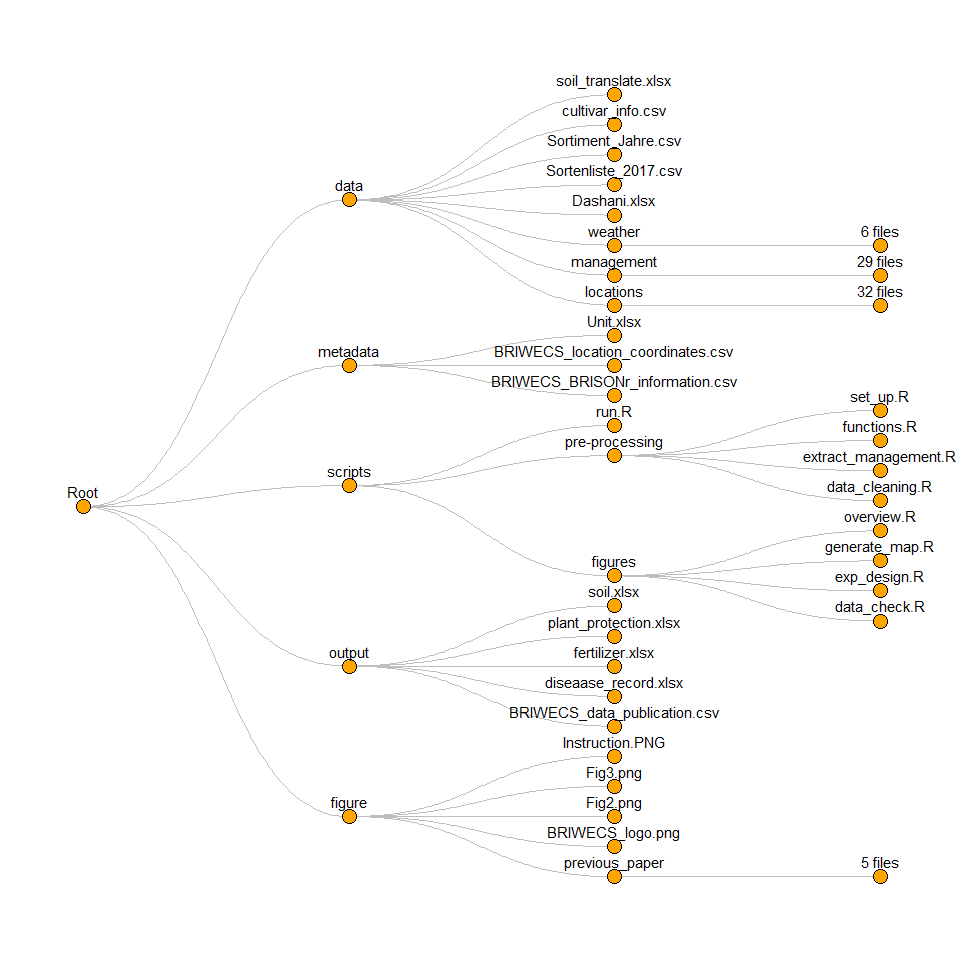
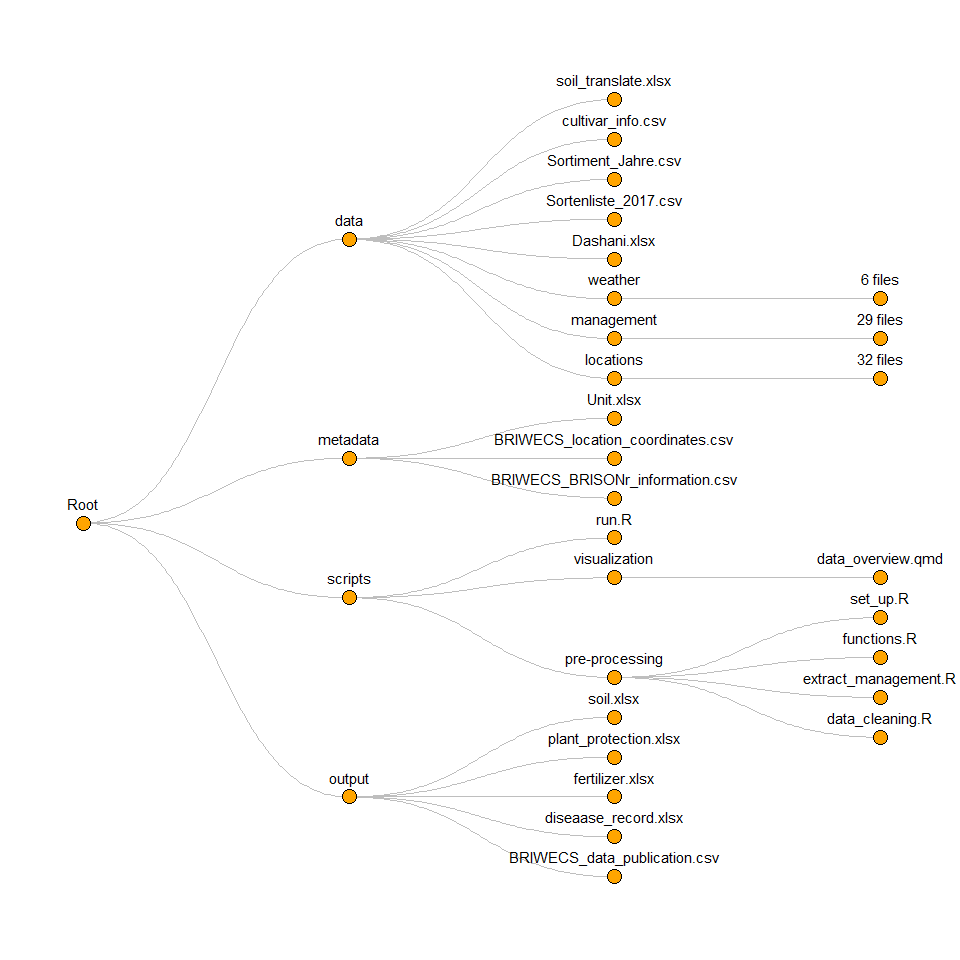
update readme directory tree

diff --git a/README.md b/README.md
@@ -2,7 +2,6 @@
 <!-- README.md is generated from README.Rmd. Please edit that file -->
 
 [![Analysis-workflow](https://img.shields.io/badge/Analysis-workflow-darkorange)](https://github.com/Illustratien/Scientific_Data_Analyis)
-
 [![Website -
 pkgdown](https://img.shields.io/badge/data-visulaization-blue)](https://tillrose.github.io/BRIWECS_Data_Publication/data_overview.html)
 [![Project-website](https://img.shields.io/badge/Project-website-darkgreen)](https://www.igps.uni-hannover.de/de/forschung/forschungsprojekte/detailansicht/projects/forschungsverbund-briwecs)
@@ -486,36 +485,3 @@ g
 </tr>
 </tbody>
 </table>
-
-## overview visualizations
-
-<figure>
-<img
-src="https://github.com/tillrose/BRIWECS_Data_Publication/blob/main/figure/fig1.png"
-data-fig-align="center"
-alt="Fig1. Experiments location and soil properties." />
-<figcaption aria-hidden="true">Fig1. Experiments location and soil
-properties.</figcaption>
-</figure>
-
-<figure>
-<img
-src="https://github.com/tillrose/BRIWECS_Data_Publication/blob/main/figure/Fig2.png"
-data-fig-align="center"
-alt="Fig2. An overview of MET data descriptor of winter wheat containing 24 traits collected across six locations in Germany (GGE, HAN, KAL, KIE, QLB, RHH) with nine incomplete managements (HN_WF_RO, LN_NF_IR, HN_NF_IR, HN_WF_IR, HN_WF_RF, LN_WF_IR, HN_NF_RF, LN_NF_RF and LN_WF_RF) during six years (2015-2020)." />
-<figcaption aria-hidden="true">Fig2. An overview of MET data descriptor
-of winter wheat containing 24 traits collected across six locations in
-Germany (GGE, HAN, KAL, KIE, QLB, RHH) with nine incomplete managements
-(HN_WF_RO, LN_NF_IR, HN_NF_IR, HN_WF_IR, HN_WF_RF, LN_WF_IR, HN_NF_RF,
-LN_NF_RF and LN_WF_RF) during six years (2015-2020).</figcaption>
-</figure>
-
-<figure>
-<img
-src="https://github.com/tillrose/BRIWECS_Data_Publication/blob/main/figure/Fig3.png"
-data-fig-align="center"
-alt="Fig3.Scatter plot of 29 combinations of location by year by management (LxYxM) versus 228 genotypes for 24 traits." />
-<figcaption aria-hidden="true">Fig3.Scatter plot of 29 combinations of
-location by year by management (LxYxM) versus 228 genotypes for 24
-traits.</figcaption>
-</figure>
